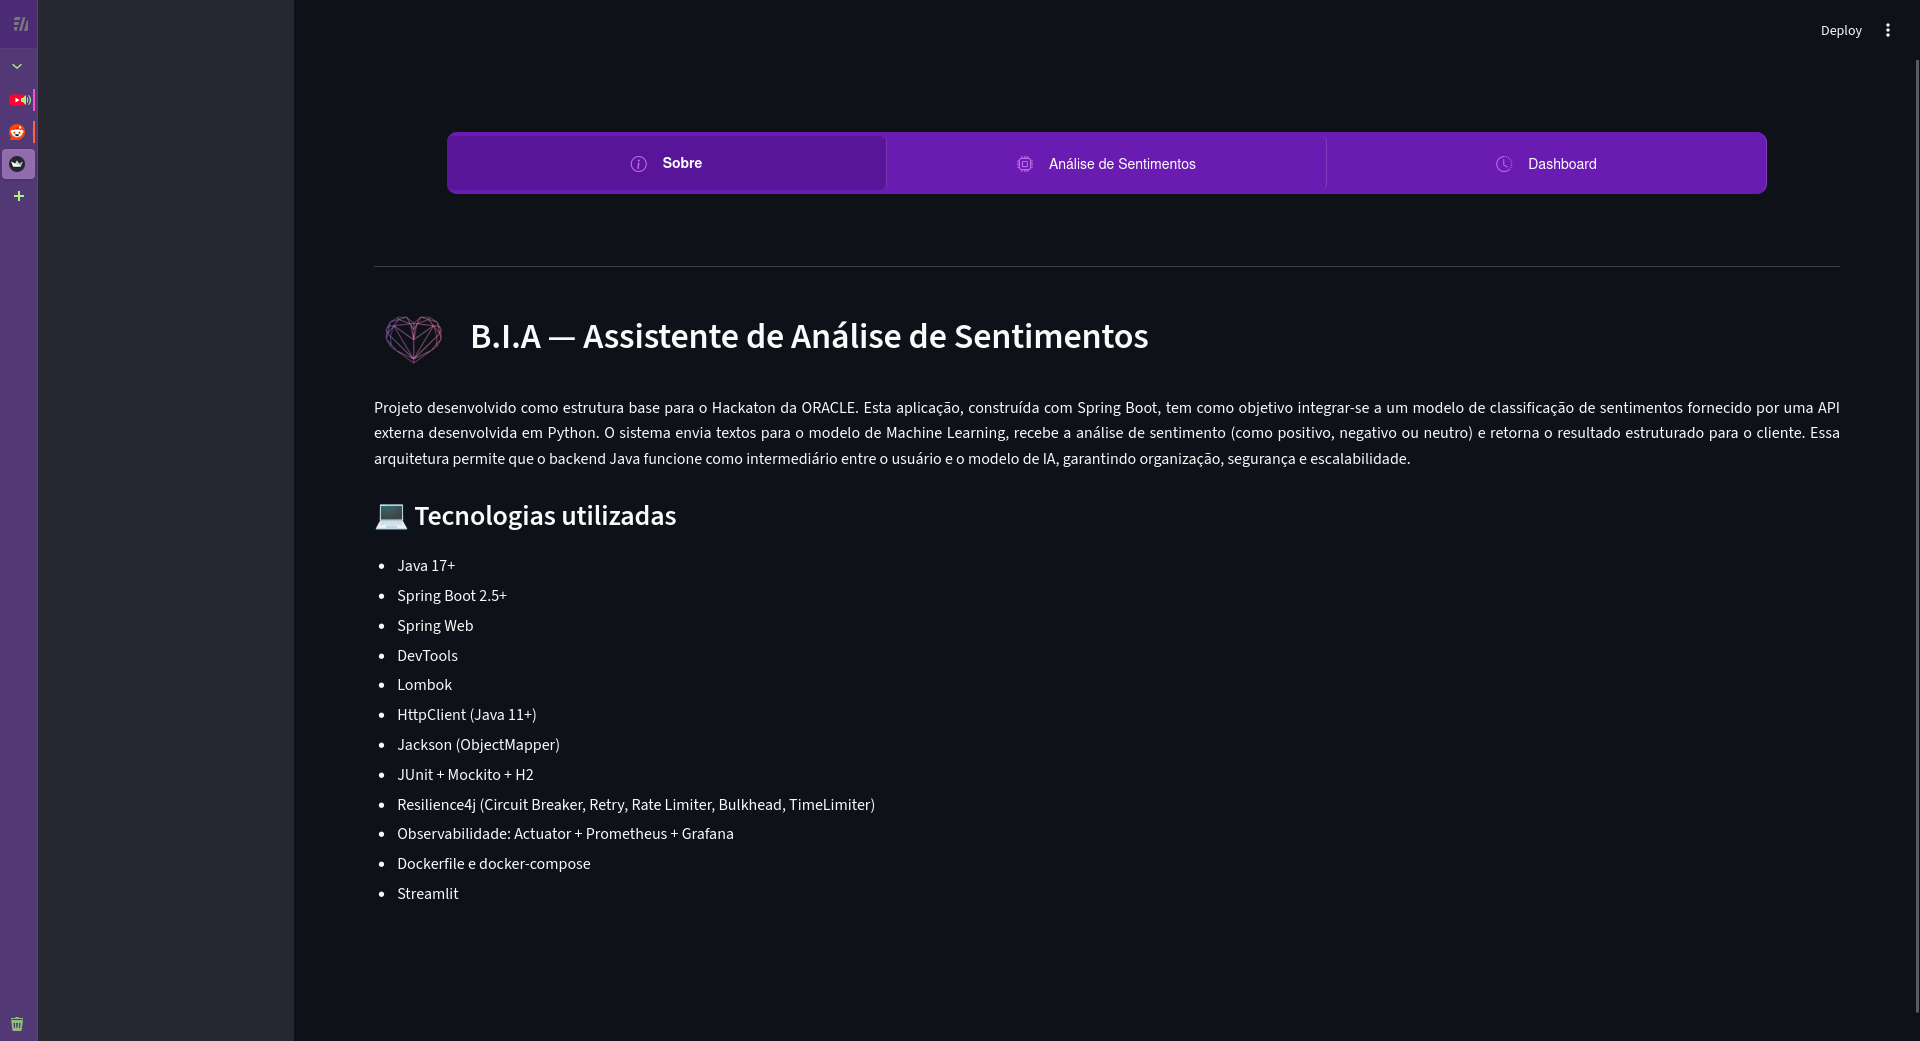
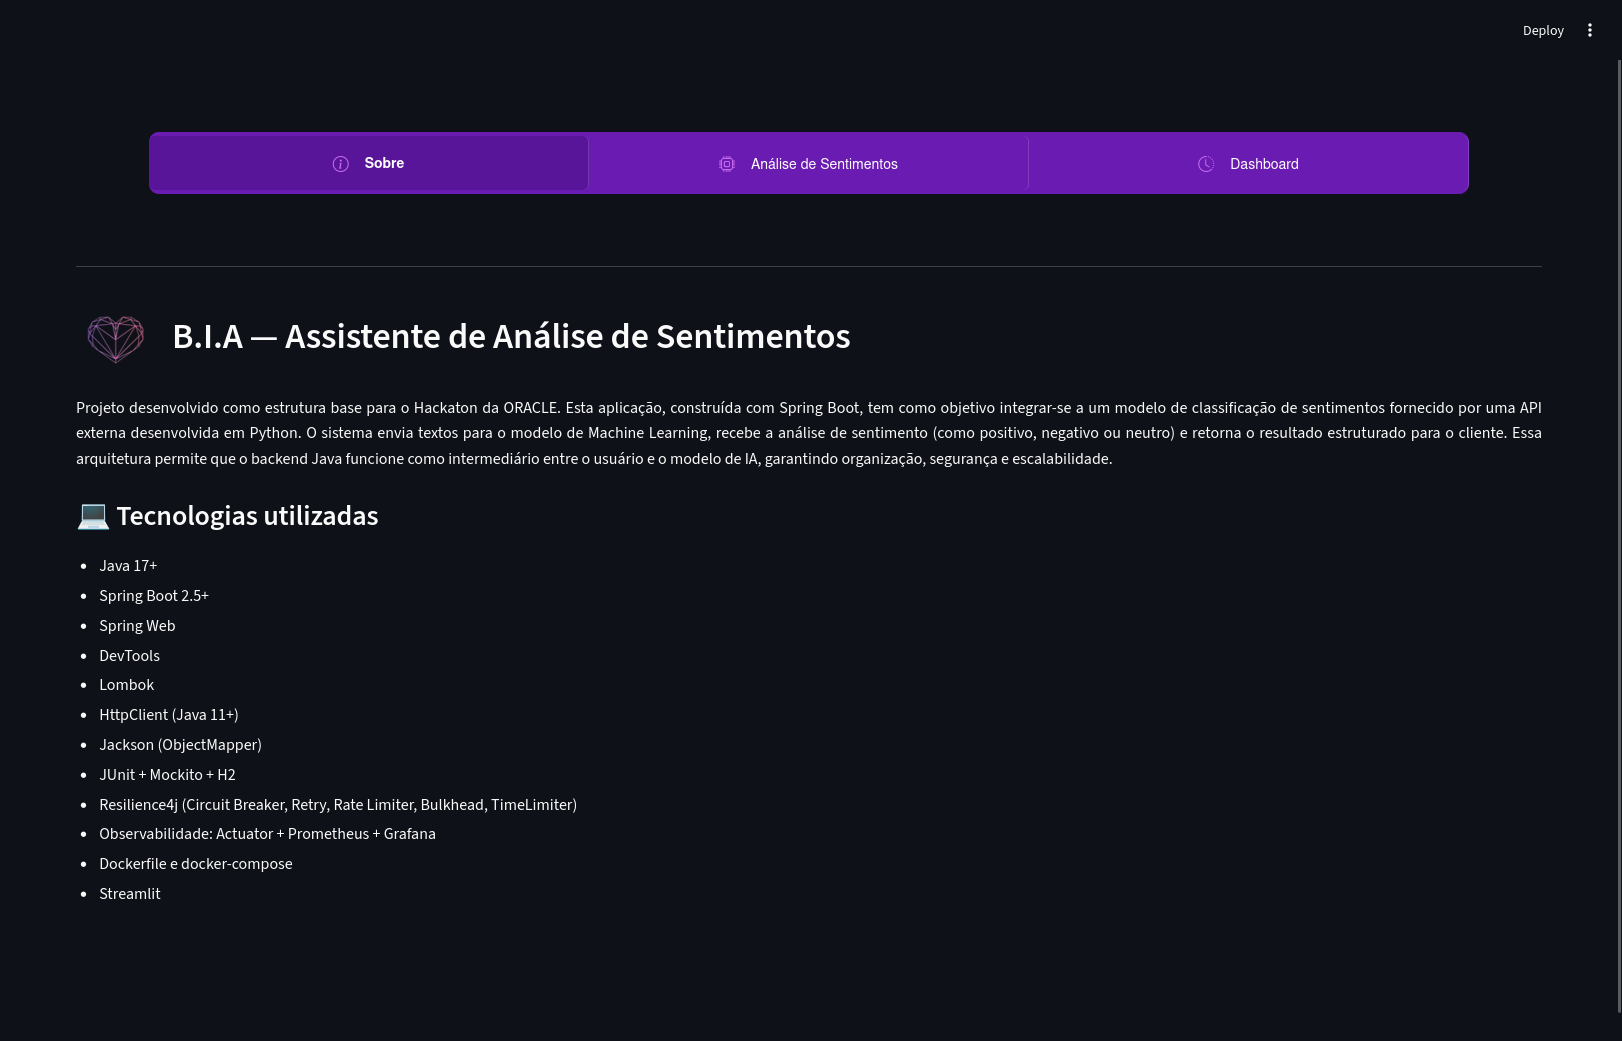
versão final

diff --git a/index.html b/index.html
@@ -7,6 +7,8 @@
   <title>Giovanna Rodrigues Felicio | UX/UI & Desenvolvimento</title>
 
   <link rel="preconnect" href="https://fonts.googleapis.com">
+  <link rel="icon" type="image/jpg" href="img/favicon.jpg">
+
   <link rel="preconnect" href="https://fonts.gstatic.com" crossorigin>
   <link rel="stylesheet" href="portifolio.css">
   <link href="https://fonts.googleapis.com/css2?family=DM+Sans:wght@400;500;600;700&family=Manrope:wght@600;700;800&display=swap" rel="stylesheet">